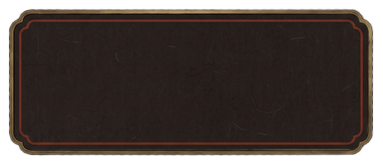
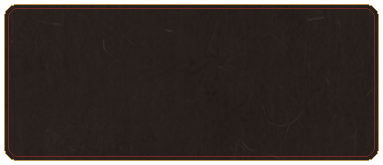
fix(android): improve V3 UI readability and scaling

Changed region(s): [[0.0, 0.0, 1.0, 1.0]]

diff --git a/android-native/app/src/main/java/com/daming/fushengzhi3/v3/ui/V3Screens.kt b/android-native/app/src/main/java/com/daming/fushengzhi3/v3/ui/V3Screens.kt
@@ -95,17 +95,17 @@ import com.daming.fushengzhi3.v3.logic.V3GameController
 import com.daming.fushengzhi3.v3.logic.V3GameEngine
 import kotlinx.coroutines.delay
 
-private val V3Ink = Color(0xFFE8D8B8)
-private val V3Paper = Color(0xE6181511)
-private val V3PaperDeep = Color(0xE629241D)
-private val V3Red = Color(0xFF9F3E2D)
-private val V3Gold = Color(0xFFC7A66A)
-private val V3Muted = Color(0xFFB3A58E)
-private val V3Green = Color(0xFF83A878)
-private val V3Blue = Color(0xFF7E9FA0)
+private val V3Ink = Color(0xFFFFF1D2)
+private val V3Paper = Color(0xF0181511)
+private val V3PaperDeep = Color(0xF229241D)
+private val V3Red = Color(0xFFE06B55)
+private val V3Gold = Color(0xFFE2C17E)
+private val V3Muted = Color(0xFFD1C4AD)
+private val V3Green = Color(0xFFA8D29C)
+private val V3Blue = Color(0xFFA5C9CA)
 private val V3Bg = Color(0xFF0E0D0B)
-private val V3Border = Color(0xFF8F7447)
-private val V3SealRed = Color(0xFFB34A35)
+private val V3Border = Color(0xFFB89A62)
+private val V3SealRed = Color(0xFFF07A61)
 private val V3Rice = Color(0xFF171511)
 private val V3SoftShape = RoundedCornerShape(16.dp)
 private val V3PanelShape = RoundedCornerShape(20.dp)
@@ -161,10 +161,11 @@ fun V3CreateScreen(controller: V3GameController, onBack: () -> Unit, onStart: ()
                                 unfocusedContainerColor = V3Rice,
                                 focusedTextColor = V3Ink,
                                 unfocusedTextColor = V3Ink,
-                                focusedIndicatorColor = V3Red,
-                                unfocusedIndicatorColor = V3Border
+                                focusedIndicatorColor = V3Gold,
+                                unfocusedIndicatorColor = V3Border,
+                                cursorColor = V3Ink
                             ),
-                            modifier = Modifier.weight(1f)
+                            modifier = Modifier.weight(1f).height(50.dp)
                         )
                     }
                     Row(Modifier.fillMaxWidth(), horizontalArrangement = Arrangement.spacedBy(8.dp), verticalAlignment = Alignment.CenterVertically) {
@@ -186,10 +187,11 @@ fun V3CreateScreen(controller: V3GameController, onBack: () -> Unit, onStart: ()
                                 unfocusedContainerColor = V3Rice,
                                 focusedTextColor = V3Ink,
                                 unfocusedTextColor = V3Ink,
-                                focusedIndicatorColor = V3Red,
-                                unfocusedIndicatorColor = V3Border
+                                focusedIndicatorColor = V3Gold,
+                                unfocusedIndicatorColor = V3Border,
+                                cursorColor = V3Ink
                             ),
-                            modifier = Modifier.weight(1f)
+                            modifier = Modifier.weight(1f).height(50.dp)
                         )
                     }
                     nameError?.let { Text(it, color = V3Red, fontSize = 12.sp, lineHeight = 17.sp) }
@@ -900,7 +902,7 @@ private fun V3GenealogyTree(
             Box(
                 Modifier
                     .wrapContentSize(Alignment.TopStart, unbounded = true)
-                    .requiredSize(with(density) { contentWidth.toDp() }, with(density) { contentHeight.toDp() })
+                    .requiredSize(contentWidth.dp, contentHeight.dp)
                     .graphicsLayer {
                         translationX = pan.x + centeredX
                         translationY = pan.y
@@ -1442,7 +1444,7 @@ private fun V3SiteManageDialog(site: V3CountySite, state: V3GameState, controlle
                 .heightIn(max = 680.dp)
                 .verticalScroll(rememberScrollState())
         ) {
-            Text("${site.name} 管理", color = V3Gold, fontSize = 22.sp, fontWeight = FontWeight.Bold, textAlign = TextAlign.Center, modifier = Modifier.fillMaxWidth())
+            Text("${site.name} 管理", color = V3Ink, fontSize = 22.sp, fontWeight = FontWeight.Bold, textAlign = TextAlign.Center, modifier = Modifier.fillMaxWidth())
             V3SiteCard(site, state, controller)
             V3SmallButton("关闭", Modifier.fillMaxWidth(), selected = true, onClick = onDismiss)
         }
@@ -1793,8 +1795,17 @@ private fun V3Panel(modifier: Modifier = Modifier, content: @Composable ColumnSc
 @Composable
 private fun V3ImagePanel(imagePath: String, modifier: Modifier = Modifier, content: @Composable ColumnScope.() -> Unit) {
     Box(modifier.fillMaxWidth()) {
-        AssetImage(GameImages.MingyunDialog, null, Modifier.matchParentSize(), ContentScale.FillBounds)
-        Column(Modifier.padding(20.dp), verticalArrangement = Arrangement.spacedBy(9.dp), content = content)
+        AssetImage(imagePath, null, Modifier.matchParentSize(), ContentScale.FillBounds)
+        Column(
+            Modifier
+                .fillMaxWidth()
+                .padding(horizontal = 20.dp, vertical = 18.dp)
+                .background(V3Rice.copy(alpha = 0.94f), V3SoftShape)
+                .border(1.dp, V3Border.copy(alpha = 0.85f), V3SoftShape)
+                .padding(horizontal = 16.dp, vertical = 14.dp),
+            verticalArrangement = Arrangement.spacedBy(9.dp),
+            content = content
+        )
     }
 }
 
@@ -1915,6 +1926,7 @@ private fun V3GoalRow(state: V3GameState, goal: V3AnnualGoal) {
 private fun V3Button(text: String, modifier: Modifier = Modifier, enabled: Boolean = true, onClick: () -> Unit) {
     Box(
         modifier = modifier
+            .heightIn(min = 48.dp)
             .clickable(enabled = enabled, onClick = onClick),
         contentAlignment = Alignment.Center
     ) {
@@ -1938,7 +1950,9 @@ private fun V3Button(text: String, modifier: Modifier = Modifier, enabled: Boole
 @Composable
 private fun V3SmallButton(text: String, modifier: Modifier = Modifier, enabled: Boolean = true, selected: Boolean = false, onClick: () -> Unit) {
     Box(
-        modifier = modifier.clickable(enabled = enabled, onClick = onClick),
+        modifier = modifier
+            .heightIn(min = 40.dp)
+            .clickable(enabled = enabled, onClick = onClick),
         contentAlignment = Alignment.Center
     ) {
         AssetImage(
@@ -1955,7 +1969,7 @@ private fun V3SmallButton(text: String, modifier: Modifier = Modifier, enabled: 
             text,
             modifier = Modifier.padding(horizontal = 7.dp, vertical = 6.dp),
             color = when {
-                !enabled -> V3Muted.copy(alpha = 0.75f)
+                !enabled -> V3Muted
                 selected -> V3Ink
                 else -> V3Ink
             },

diff --git a/android-native/app/src/main/java/com/daming/fushengzhi3/ui/screens/MainMenuScreen.kt b/android-native/app/src/main/java/com/daming/fushengzhi3/ui/screens/MainMenuScreen.kt
@@ -43,6 +43,9 @@ private val MenuSurface = Color(0xFFF4E7C7)
 private val MenuSurface2 = Color(0xFFE6D2A4)
 private val MenuInk = Color(0xFF2B2016)
 private val MenuMuted = Color(0xFF6E5D46)
+private val MenuButtonText = Color(0xFFFFF4D8)
+private val MenuButtonSecondary = Color(0xFFE8D8B8)
+private val MenuButtonDisabled = Color(0xFFC0B39B)
 private val MenuGold = Color(0xFF8A5A19)
 private val MenuRed = Color(0xFFA83224)
 private val MenuCyan = Color(0xFF426B67)
@@ -126,12 +129,28 @@ private fun MenuButton(text: String, subtitle: String = "", enabled: Boolean = t
             ContentScale.FillBounds
         )
         Column(
-            Modifier.fillMaxWidth().padding(horizontal = 18.dp, vertical = 15.dp),
+            Modifier.fillMaxWidth().padding(horizontal = 18.dp, vertical = 13.dp),
             horizontalAlignment = Alignment.CenterHorizontally,
             verticalArrangement = Arrangement.spacedBy(4.dp)
         ) {
-            Text(text, color = if (enabled) MenuInk else MenuMuted, fontSize = 21.sp, fontWeight = FontWeight.Bold, textAlign = TextAlign.Center, modifier = Modifier.fillMaxWidth())
-            if (subtitle.isNotBlank()) Text(subtitle, color = if (enabled) MenuMuted else MenuMuted.copy(alpha = 0.6f), fontSize = 12.sp, textAlign = TextAlign.Center, modifier = Modifier.fillMaxWidth())
+            Text(
+                text,
+                color = if (enabled) MenuButtonText else MenuButtonDisabled,
+                fontSize = 21.sp,
+                fontWeight = FontWeight.Bold,
+                textAlign = TextAlign.Center,
+                modifier = Modifier.fillMaxWidth()
+            )
+            if (subtitle.isNotBlank()) {
+                Text(
+                    subtitle,
+                    color = if (enabled) MenuButtonSecondary else MenuButtonDisabled.copy(alpha = 0.82f),
+                    fontSize = 12.sp,
+                    fontWeight = FontWeight.Medium,
+                    textAlign = TextAlign.Center,
+                    modifier = Modifier.fillMaxWidth()
+                )
+            }
         }
     }
 }
@@ -180,7 +199,7 @@ private fun MenuChoice(text: String, selected: Boolean, modifier: Modifier, onCl
         )
         Text(
             text,
-            color = if (selected) Color(0xFFFFF4D8) else MenuInk,
+            color = MenuButtonText,
             fontSize = 13.sp,
             fontWeight = FontWeight.Bold,
             textAlign = TextAlign.Center,